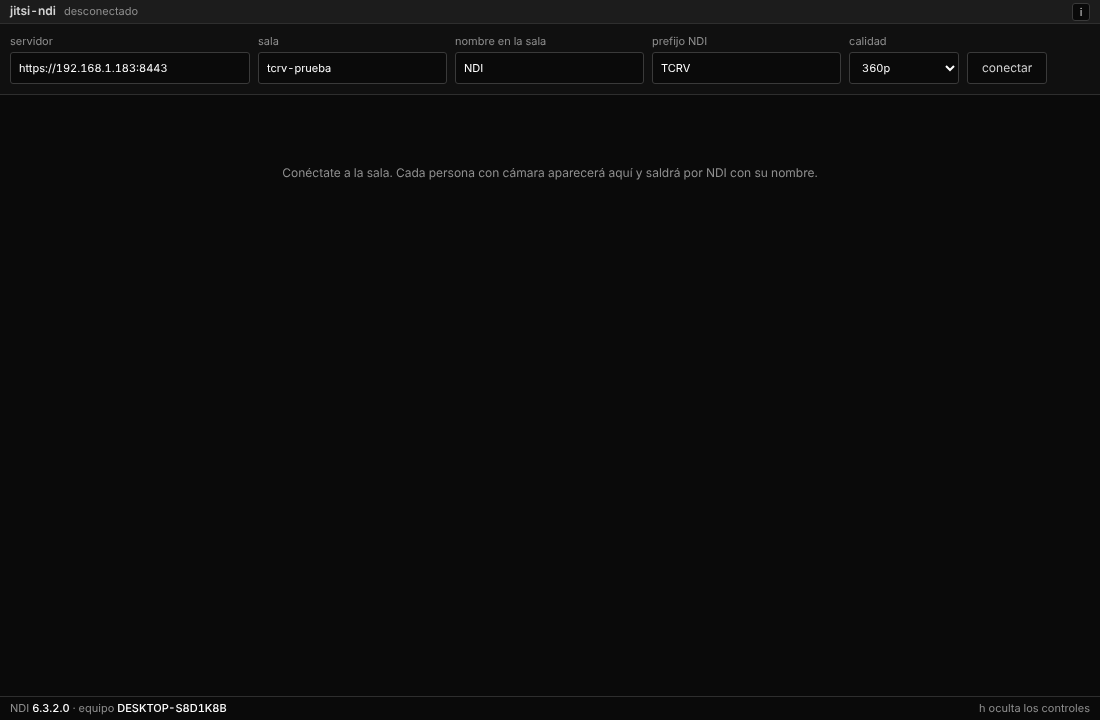
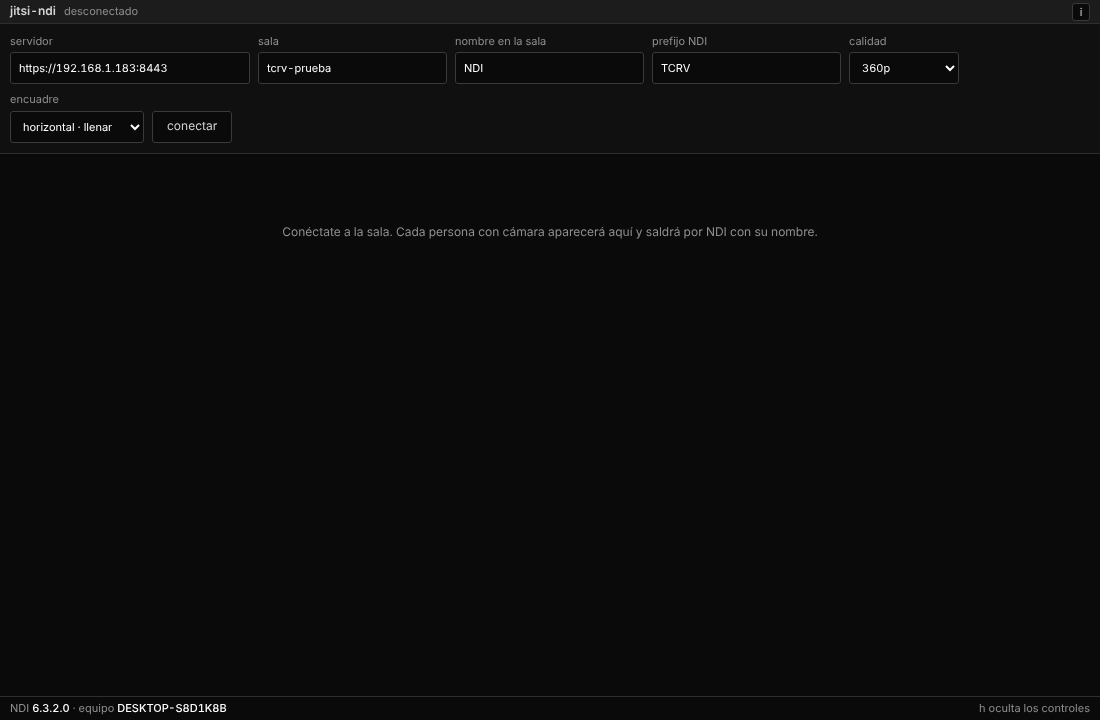
jitsi-ndi v0.6.0: encuadre horizontal fijo y contexto del TCRV
- Encuadre de salida: «horizontal · llenar» (por defecto) mantiene cada señal
  en 16:9 y al mismo tamaño aunque el teléfono se ponga vertical (recorta el
  centro, sin deformar); «ajustar» con barras negras; «original». Cambia en vivo.
- «Acerca de» y README: jitsi-ndi como parte de la investigación del TCRV de
  Landscape Artes Escénicas (World Summit Award 2020, Cuadrienal de Praga 2024),
  con enlaces a landscape.com.mx; los enlaces se abren en el navegador.
- Capturas actualizadas.

Diseño, investigación y desarrollo: Héctor Cruz Juárez — https://hectorcruz.com.mx
Colección Alchemy of Meaning.

Claude-Session: https://claude.ai/code/session_01BnGbnWt557duBd23tK7ucY

diff --git a/app/receptor.js b/app/receptor.js
@@ -13,7 +13,7 @@ const puente = window.puente || { version: '?', equipo: '?', ndi: { disponible: 
 const ndi = puente.ndi
 
 const $ = (id) => document.getElementById(id)
-const campos = ['servidor', 'sala', 'nombre', 'prefijo', 'altura']
+const campos = ['servidor', 'sala', 'nombre', 'prefijo', 'altura', 'encuadre']
 const params = new URLSearchParams(location.search)
 const prueba = params.has('servidor') ? {
   servidor: params.get('servidor'),
@@ -38,7 +38,7 @@ function guardar () {
   try { for (const c of campos) localStorage.setItem('jn.' + c, $(c).value) } catch (e) { /* sin almacenamiento */ }
 }
 function cargar () {
-  const def = { servidor: '', sala: 'tcrv-prueba', nombre: 'NDI', prefijo: 'TCRV', altura: '360' }
+  const def = { servidor: '', sala: 'tcrv-prueba', nombre: 'NDI', prefijo: 'TCRV', altura: '360', encuadre: 'llenar' }
   for (const c of campos) {
     let v = null
     try { v = localStorage.getItem('jn.' + c) } catch (e) { /* nada */ }
@@ -198,6 +198,7 @@ function bombear (p) {
       if (p.ocupado || gen !== p.gen) { cuadro.close(); continue } // si NDI va atrasado, se salta el cuadro
       p.ocupado = true
       convertir(p, cuadro)
+        .then(({ datos, w, h }) => encuadrar(p, datos, w, h))
         .then(({ datos, w, h }) => p.salida.senal.enviar(datos, w, h).then(() => { p.cuadros++; p.cuadrosSeg++; p.res = `${w}×${h}` }))
         .catch((e) => log('Error con un cuadro de', p.persona + ':', e.message))
         .finally(() => { p.ocupado = false })
@@ -212,7 +213,7 @@ async function convertir (p, cuadro) {
     const h = cuadro.visibleRect.height
     const tam = w * h * 4
     if (!p.buf || p.buf.byteLength !== tam) p.buf = new Uint8Array(tam)
-    await cuadro.copyTo(p.buf, { format: 'RGBX' })
+    await cuadro.copyTo(p.buf, { format: 'RGBA' })
     let rot = Number(cuadro.rotation) || 0
     if (cuadro.rotation === undefined) {
       // navegador sin VideoFrame.rotation: se deduce de la vista previa
@@ -226,6 +227,46 @@ async function convertir (p, cuadro) {
   } finally {
     cuadro.close()
   }
+}
+
+// Encuadre de salida: el TCRV trabaja en horizontal (16:9). Si un teléfono se pone
+// vertical, la señal NDI conserva su tamaño y proporción:
+//  · llenar: recorta el centro y llena todo el cuadro (sin barras, sin deformar)
+//  · ajustar: muestra la imagen completa con barras negras a los lados
+//  · original: manda la imagen tal como llega (puede cambiar de tamaño y orientación)
+async function encuadrar (p, datos, w, h) {
+  const modo = $('encuadre').value
+  if (modo === 'original') return { datos, w, h }
+  const H = Number($('altura').value) || 360
+  const W = Math.round((H * 16) / 9 / 2) * 2
+  if (w === W && h === H) return { datos, w, h }
+  if (!p.lienzoSal) {
+    p.lienzoSal = new OffscreenCanvas(W, H)
+    p.ctxSal = p.lienzoSal.getContext('2d', { willReadFrequently: true, alpha: false })
+  }
+  if (p.lienzoSal.width !== W || p.lienzoSal.height !== H) { p.lienzoSal.width = W; p.lienzoSal.height = H }
+  const ctx = p.ctxSal
+  ctx.imageSmoothingQuality = 'high'
+  const bmp = await createImageBitmap(new ImageData(new Uint8ClampedArray(datos.buffer, datos.byteOffset, w * h * 4), w, h))
+  const A = W / H
+  const a = w / h
+  ctx.fillStyle = '#000'
+  ctx.fillRect(0, 0, W, H)
+  if (modo === 'llenar') {
+    let sx = 0; let sy = 0; let sw = w; let sh = h
+    if (a > A) { sw = h * A; sx = (w - sw) / 2 } else { sh = w / A; sy = (h - sh) / 2 }
+    ctx.drawImage(bmp, sx, sy, sw, sh, 0, 0, W, H)
+  } else {
+    let dw = W; let dh = H
+    if (a > A) dh = W / a; else dw = H * a
+    ctx.drawImage(bmp, 0, 0, w, h, (W - dw) / 2, (H - dh) / 2, dw, dh)
+  }
+  bmp.close()
+  return { datos: ctx.getImageData(0, 0, W, H).data, w: W, h: H }
+}
+
+function aplicarEncuadreVista () {
+  document.body.dataset.encuadre = $('encuadre').value
 }
 
 // Rota una imagen RGBX en sentido horario (90, 180 o 270 grados).
@@ -257,7 +298,8 @@ function bombearVideo (p, gen) {
       ctx.drawImage(v, 0, 0, w, h)
       const img = ctx.getImageData(0, 0, w, h)
       p.ocupado = true
-      p.salida.senal.enviar(img.data, w, h).then(() => { p.cuadros++; p.cuadrosSeg++; p.res = `${w}×${h}` })
+      encuadrar(p, img.data, w, h)
+        .then((r) => p.salida.senal.enviar(r.datos, r.w, r.h).then(() => { p.cuadros++; p.cuadrosSeg++; p.res = `${r.w}×${r.h}` }))
         .catch((e) => log('Error al enviar cuadro:', e.message))
         .finally(() => { p.ocupado = false })
     }
@@ -381,7 +423,7 @@ function marcarConectado (si) {
   const b = $('btnConectar')
   b.textContent = si ? 'desconectar' : 'conectar'
   b.setAttribute('aria-pressed', String(si))
-  for (const c of campos) $(c).disabled = si
+  for (const c of campos) if (c !== 'encuadre') $(c).disabled = si
   actualizarResumen()
 }
 
@@ -411,6 +453,8 @@ $('ndiInfo').innerHTML = ndi.disponible
   ? `NDI <b>${String(ndi.version).split(' ').pop()}</b> · equipo <b>${puente.equipo}</b>`
   : 'NDI no disponible: revisa la instalación (npm install)'
 cargar()
+aplicarEncuadreVista()
+$('encuadre').addEventListener('change', () => { guardar(); aplicarEncuadreVista() })
 if (sessionStorage.getItem('jn.autoconectar') === '1' || prueba) {
   sessionStorage.removeItem('jn.autoconectar')
   conectar().catch((err) => { ponerEstado(err.message, 'error'); if (prueba) terminarPrueba(1, err.message) })

diff --git a/app/index.html b/app/index.html
@@ -26,6 +26,13 @@
         <option value="720">720p</option>
       </select>
     </label>
+    <label>encuadre
+      <select id="encuadre" title="Cómo sale por NDI un teléfono puesto en vertical">
+        <option value="llenar" selected>horizontal · llenar</option>
+        <option value="ajustar">horizontal · ajustar</option>
+        <option value="original">original</option>
+      </select>
+    </label>
     <button id="btnConectar" class="principal" type="submit" aria-pressed="false">conectar</button>
   </form>
 
@@ -44,6 +51,8 @@
     <div class="cuerpo">
       <p><strong>jitsi-ndi</strong> <span id="version"></span></p>
       <p class="tenue">Recibe la cámara de cada participante de una reunión en Jitsi y la publica como una señal NDI separada, para el mixer TCRV en TouchDesigner.</p>
+      <p class="tenue">Forma parte de la investigación del <strong>TCRV · Teatro de Creación Remota en Vivo</strong> de Landscape Artes Escénicas (México): una metodología para crear en vivo con un elenco reunido en una videollamada, cada quien desde su lugar y su cámara, editado en tiempo real como en la televisión en directo. Reconocida con el World Summit Award 2020, iniciativa vinculada a la Cumbre Mundial sobre la Sociedad de la Información de las Naciones Unidas, y presentada en la Cuadrienal de Praga 2024.</p>
+      <p><a href="https://landscape.com.mx/teatro-de-creacion-remota-en-vivo-2022-research/" target="_blank">landscape.com.mx · TCRV</a></p>
       <p>Diseño, investigación y desarrollo: Héctor Cruz Juárez — https://hectorcruz.com.mx<br>Colección Alchemy of Meaning.</p>
     </div>
   </div>

diff --git a/app/main.js b/app/main.js
@@ -10,7 +10,7 @@
 'use strict'
 
 const path = require('path')
-const { app, BrowserWindow, session, ipcMain, powerSaveBlocker } = require('electron')
+const { app, BrowserWindow, session, ipcMain, powerSaveBlocker, shell } = require('electron')
 
 // Video sin gesto del usuario y sin bajar el ritmo cuando la ventana no tiene foco
 app.commandLine.appendSwitch('autoplay-policy', 'no-user-gesture-required')
@@ -65,6 +65,11 @@ function crearVentana () {
       webSecurity: false, // carga config.js y lib-jitsi-meet desde tu servidor Jitsi
       backgroundThrottling: false
     }
+  })
+  // los enlaces (p. ej. landscape.com.mx) se abren en el navegador, no dentro de la app
+  ventana.webContents.setWindowOpenHandler(({ url }) => {
+    if (/^https:\/\//.test(url)) shell.openExternal(url)
+    return { action: 'deny' }
   })
   ventana.loadFile(path.join(__dirname, 'index.html'), argsPrueba ? { query: argsPrueba } : undefined)
   if (argsPrueba) {

diff --git a/app/estilo.css b/app/estilo.css
@@ -55,3 +55,8 @@ button.mini{height:18px;width:18px;padding:0;font-size:var(--a-size-sm);line-hei
 
 body.oculto .panel,body.oculto .pie,body.oculto > .barra{display:none}
 .recuperar{position:fixed;right:max(8px,env(safe-area-inset-right));bottom:max(8px,env(safe-area-inset-bottom));width:24px;height:24px;padding:0;opacity:.5}
+
+/* la vista previa muestra el encuadre que sale por NDI */
+body[data-encuadre="llenar"] .ficha video{object-fit:cover}
+.acerca a{color:var(--a-ink-strong)}
+.acerca{max-height:calc(100vh - 60px);overflow:auto}

diff --git a/README.md b/README.md
@@ -1,6 +1,6 @@
 # jitsi-ndi
 
-**Versión 0.4.0 · Ejecutable para Windows**
+**Versión 0.6.0 · Encuadre horizontal fijo**
 
 **Descargar:** [Releases](https://github.com/loquellega/jitsi-ndi/releases/latest) → `jitsi-ndi-…-windows-x64.exe` (portable, no se instala; necesita NDI Tools).
 
@@ -105,7 +105,8 @@ En la ventana escribe la dirección del servidor (`https://IP-DE-LA-PC:8443`), l
 
 - **Nombre:** `prefijo + nombre de la persona`, por ejemplo `TU-PC (TCRV Ana)`. Si dos personas usan el mismo nombre, la segunda queda como `TCRV Ana 2`.
 - **Si alguien sale y vuelve** con el mismo nombre, regresa a la misma señal: el NDI In TOP de TouchDesigner no se rompe.
-- **Calidad:** 360p por defecto (también 180p o 720p). Las cámaras verticales salen verticales.
+- **Calidad:** 360p por defecto (también 180p o 720p).
+- **Encuadre:** el TCRV trabaja en horizontal. Con **horizontal · llenar** (por defecto) cada señal sale siempre en 16:9 al mismo tamaño (640×360 en 360p); si alguien pone su teléfono en vertical, se recorta el centro y el cuadro sigue lleno, sin deformar. **Horizontal · ajustar** muestra la imagen completa con barras negras, y **original** la manda tal como llega. Se puede cambiar en vivo.
 - **Teclado:** `h` oculta los controles, `i` muestra «acerca de».
 
 La prueba automática de GitHub levanta Jitsi en Docker, mete un participante con cámara de prueba y confirma que su video llega por NDI.
@@ -140,6 +141,16 @@ In TouchDesigner, add an **NDI In TOP** and pick `YOUR-PC (TCRV Prueba 1)`, `…
 ### Receiver app (steps 3–4)
 
 With the Jitsi server running (`servidor/preparar.ps1`, then `docker compose up -d`), run `npm install` and `npm start`, enter the server address and room, and press **conectar**. Each participant's camera becomes an NDI source named `PREFIX Name` (e.g. `YOUR-PC (TCRV Ana)`), kept stable if they leave and rejoin.
+
+## TCRV · Landscape Artes Escénicas
+
+jitsi-ndi forma parte de la investigación del **TCRV · Teatro de Creación Remota en Vivo**, de [Landscape Artes Escénicas](https://landscape.com.mx) (Ciudad de México). Creado en 2020, el TCRV es una metodología y una herramienta digital para crear en vivo con un elenco reunido en una videollamada: cada intérprete participa desde su lugar y su propia cámara, y la dirección multimedia edita esas imágenes en tiempo real, con la lógica de la dirección de cámaras de la televisión en directo y el plano secuencia cinematográfico. La metodología fue reconocida con el **World Summit Award 2020**, iniciativa vinculada a la Cumbre Mundial sobre la Sociedad de la Información de las **Naciones Unidas**, y presentada en la **Cuadrienal de Praga 2024**.
+
+Esta app reemplaza la salida NDI por participante que el TCRV obtenía de Skype, con software libre y sin cuentas, manteniendo el principio del método: cualquier persona con un teléfono y conexión a internet puede formar parte de la obra.
+
+Más información: [TCRV · investigación](https://landscape.com.mx/teatro-de-creacion-remota-en-vivo-2022-research/) · [Decálogo y preguntas frecuentes](https://landscape.com.mx/decalogo-faqs-tcrv-teatro-de-creacion-remota-en-vivo-dtcrv-danza-teatro-de-creacion-remota-en-vivo/)
+
+*English:* jitsi-ndi is part of the research behind **TCRV (Live Remote Creation Theater)** by Landscape Artes Escénicas, Mexico City: a method, created in 2020, for making live work with a cast gathered in a video call, each performer from their own place and camera, edited in real time. It received the **World Summit Award 2020**, an initiative linked to the United Nations World Summit on the Information Society, and was presented at the **Prague Quadrennial 2024**.
 
 ## Capturas / Screenshots
 
